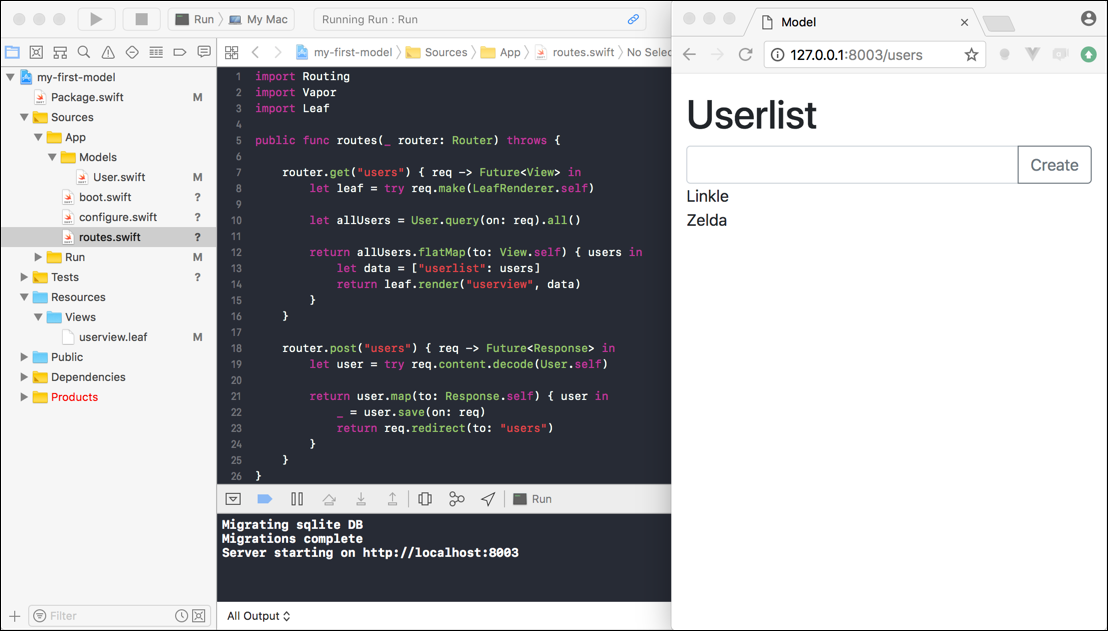
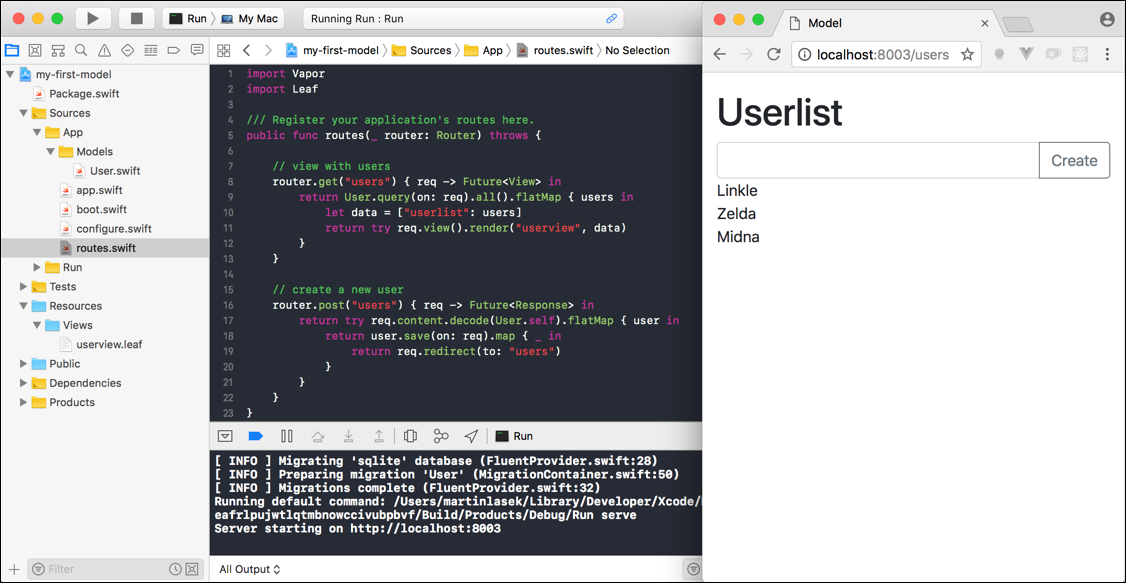
updated code to latest vapor changes

Changed region(s): [[0.0, 0.0, 1.0, 1.0]]

diff --git a/Sources/App/configure.swift b/Sources/App/configure.swift
@@ -2,24 +2,25 @@ import Vapor
 import Leaf
 import FluentSQLite
 
+/// Called before your application initializes.
 public func configure(
     _ config: inout Config,
     _ env: inout Environment,
     _ services: inout Services
 ) throws {
 
-    // Register routes to the router
+    /// Register routes to the router
     let router = EngineRouter.default()
     try routes(router)
     services.register(router, as: Router.self)
 
-    let myService = EngineServerConfig.default(port: 8003)
+    let myService = NIOServerConfig.default(port: 8003)
     services.register(myService)
 
-    try services.register(LeafProvider())
+    let leafProvider = LeafProvider()
+    try services.register(leafProvider)
     try services.register(FluentSQLiteProvider())
-
-    config.prefer(LeafRenderer.self, for: TemplateRenderer.self)
+    config.prefer(LeafRenderer.self, for: ViewRenderer.self)
 
     var databases = DatabasesConfig()
     try databases.add(database: SQLiteDatabase(storage: .memory), as: .sqlite)

diff --git a/Sources/App/routes.swift b/Sources/App/routes.swift
@@ -1,23 +1,23 @@
-import Routing
 import Vapor
 import Leaf
 
+/// Register your application's routes here.
 public func routes(_ router: Router) throws {
 
+    // view with users
     router.get("users") { req -> Future<View> in
-        let allUsers = User.query(on: req).all()
-
-        return allUsers.flatMap(to: View.self) { users in
+        return User.query(on: req).all().flatMap { users in
             let data = ["userlist": users]
             return try req.view().render("userview", data)
         }
     }
 
+    // create a new user
     router.post("users") { req -> Future<Response> in
-        let user = try req.content.decode(User.self)
-
-        return user.save(on: req).map(to: Response.self) { _ in
-            return req.redirect(to: "users")
+        return try req.content.decode(User.self).flatMap { user in
+            return user.save(on: req).map { _ in
+                return req.redirect(to: "users")
+            }
         }
     }
 }

diff --git a/Package.swift b/Package.swift
@@ -5,14 +5,14 @@ let package = Package(
     name: "my-first-model",
     dependencies: [
         // 💧 A server-side Swift web framework.
-        .package(url: "https://github.com/vapor/vapor.git", from: "3.0.0-rc"),
+        .package(url: "https://github.com/vapor/vapor.git", from: "3.0.0"),
         .package(url: "https://github.com/vapor/leaf.git", from: "3.0.0-rc"),
-        .package(url: "https://github.com/vapor/fluent-sqlite.git", from: "3.0.0-rc")
+	.package(url: "https://github.com/vapor/fluent-sqlite.git", from: "3.0.0-rc")
     ],
     targets: [
         .target(name: "App", dependencies: ["Vapor", "Leaf", "FluentSQLite"]),
         .target(name: "Run", dependencies: ["App"]),
-        .testTarget(name: "AppTests", dependencies: ["App"]),
+        .testTarget(name: "AppTests", dependencies: ["App"])
     ]
 )
 

diff --git a/Sources/Run/main.swift b/Sources/Run/main.swift
@@ -1,26 +1,3 @@
 import App
-import Service
-import Vapor
-import Foundation
 
-// The contents of main are wrapped in a do/catch block because any errors that get raised to the top level will crash Xcode
-do {
-    var config = Config.default()
-    var env = try Environment.detect()
-    var services = Services.default()
-    
-    try App.configure(&config, &env, &services)
-    
-    let app = try Application(
-        config: config,
-        environment: env,
-        services: services
-    )
-    
-    try App.boot(app)
-    
-    try app.run()
-} catch {
-    print(error)
-    exit(1)
-}
+try app(.detect()).run()

diff --git a/Sources/App/app.swift b/Sources/App/app.swift
@@ -1,0 +1,12 @@
+import Vapor
+
+/// Creates an instance of Application. This is called from main.swift in the run target.
+public func app(_ env: Environment) throws -> Application {
+    var config = Config.default()
+    var env = env
+    var services = Services.default()
+    try configure(&config, &env, &services)
+    let app = try Application(config: config, environment: env, services: services)
+    try boot(app)
+    return app
+}

diff --git a/Tests/AppTests/AppTests.swift b/Tests/AppTests/AppTests.swift
@@ -1,13 +1,13 @@
 import App
-import Dispatch
 import XCTest
 
-final class AppTests : XCTestCase {
+final class AppTests: XCTestCase {
     func testNothing() throws {
+        // add your tests here
         XCTAssert(true)
     }
 
     static let allTests = [
-        ("testNothing", testNothing),
+        ("testNothing", testNothing)
     ]
 }

diff --git a/Sources/App/Models/User.swift b/Sources/App/Models/User.swift
@@ -4,13 +4,10 @@ import Vapor
 final class User: SQLiteModel {
     var id: Int?
     var username: String
-
     init(id: Int? = nil, username: String) {
         self.id = id
         self.username = username
     }
 }
-
 extension User: Content {}
-
 extension User: Migration {}

diff --git a/Sources/App/boot.swift b/Sources/App/boot.swift
@@ -1,9 +1,6 @@
-import Routing
 import Vapor
 
 /// Called after your application has initialized.
-///
-/// [Learn More →](https://docs.vapor.codes/3.0/getting-started/structure/#bootswift)
 public func boot(_ app: Application) throws {
     // your code here
 }
